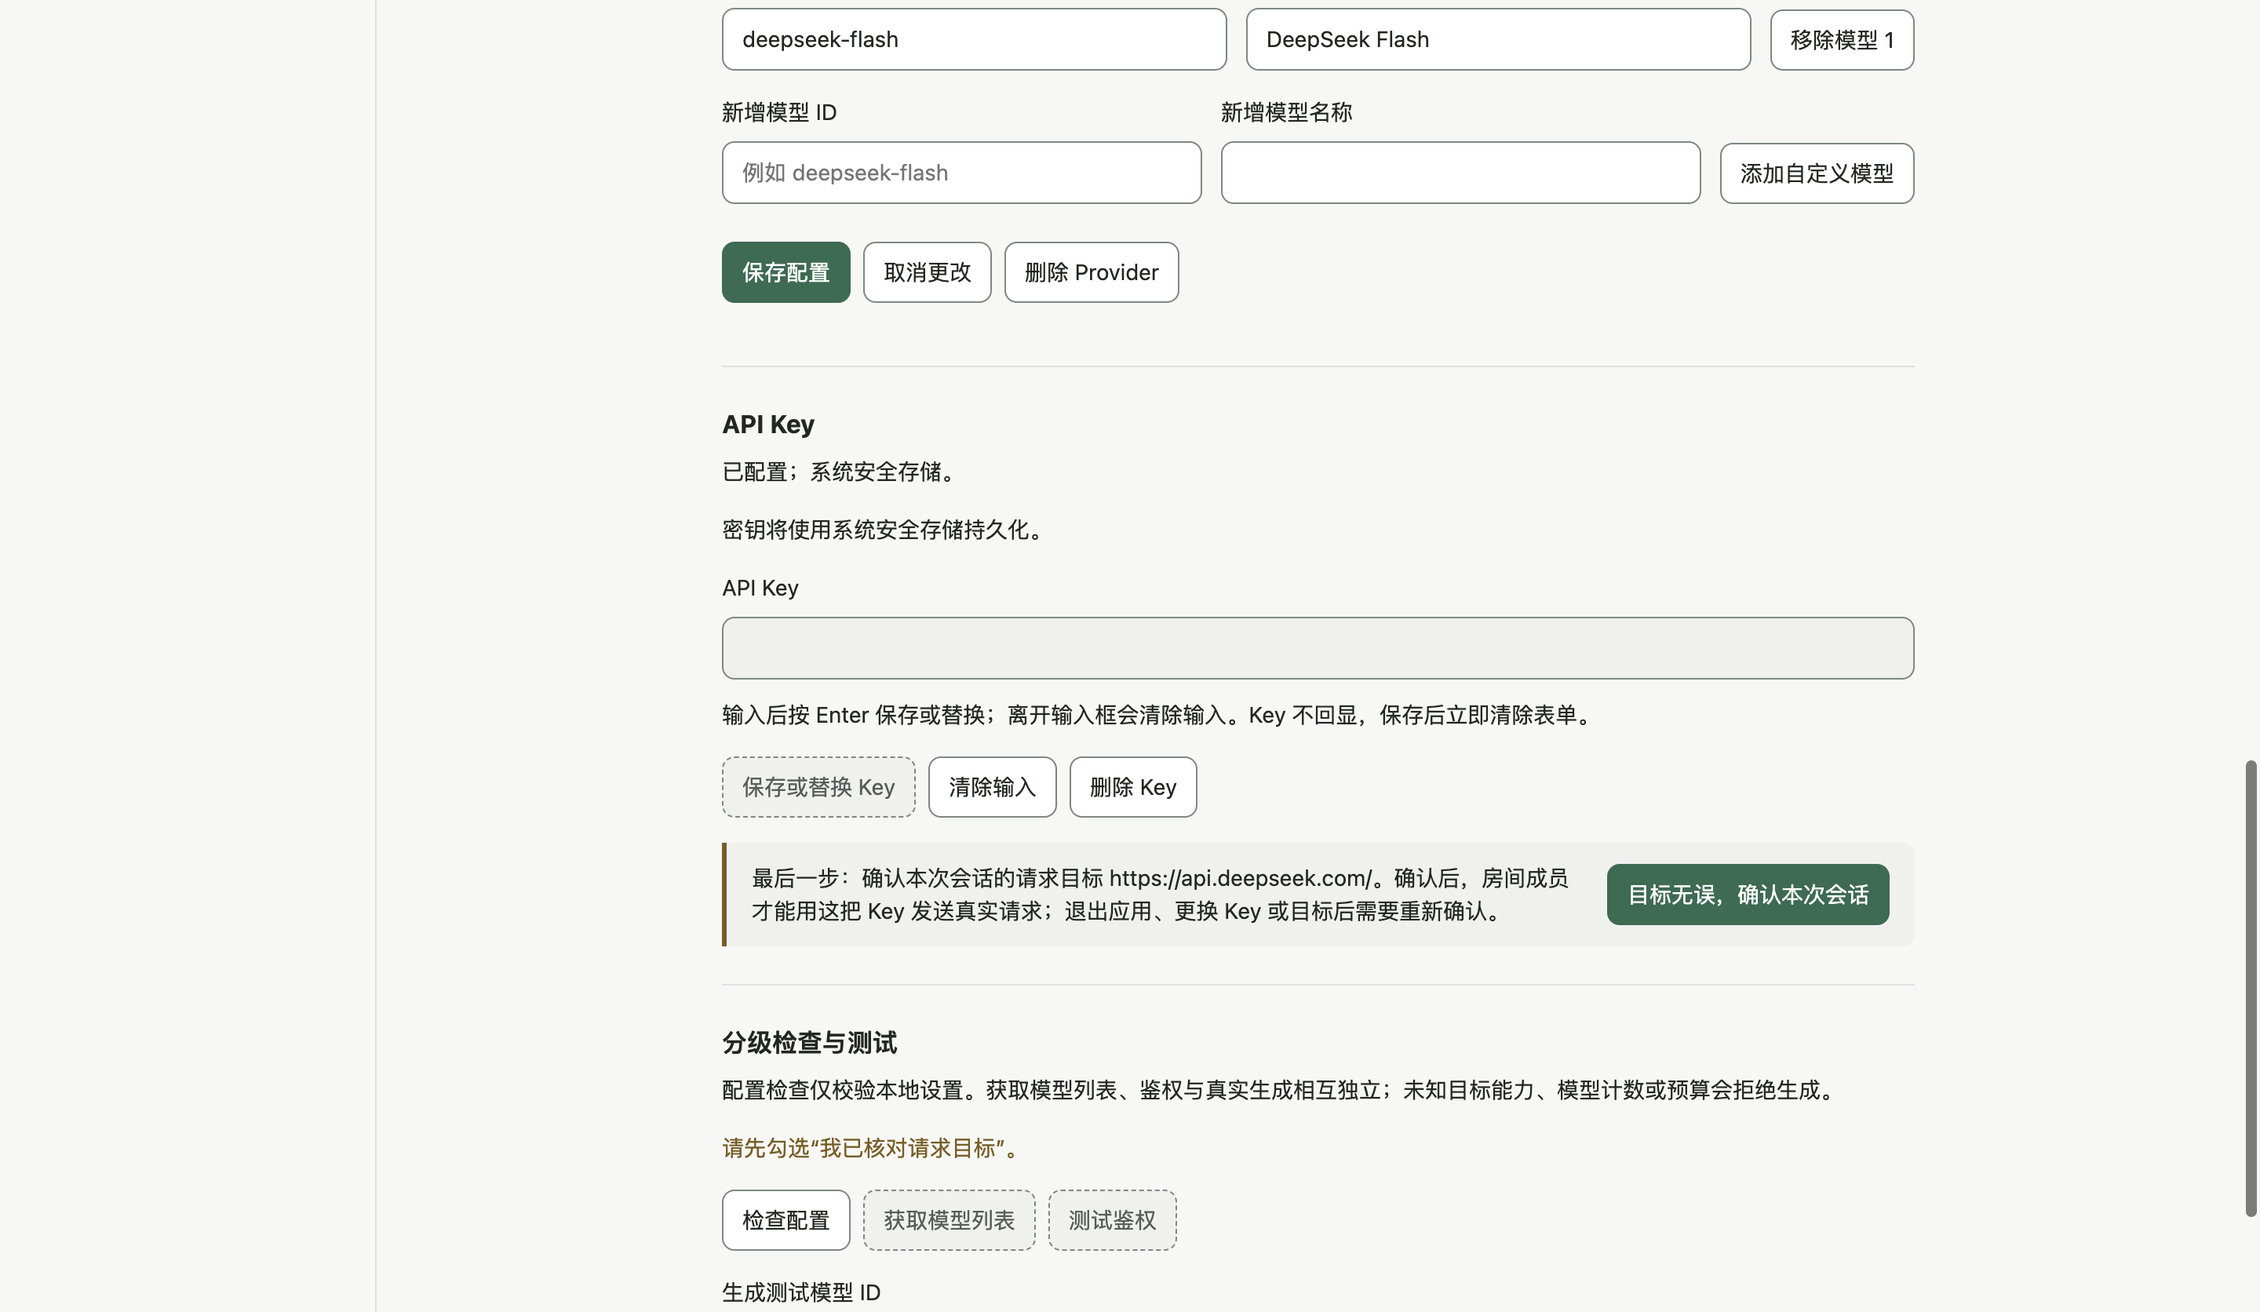
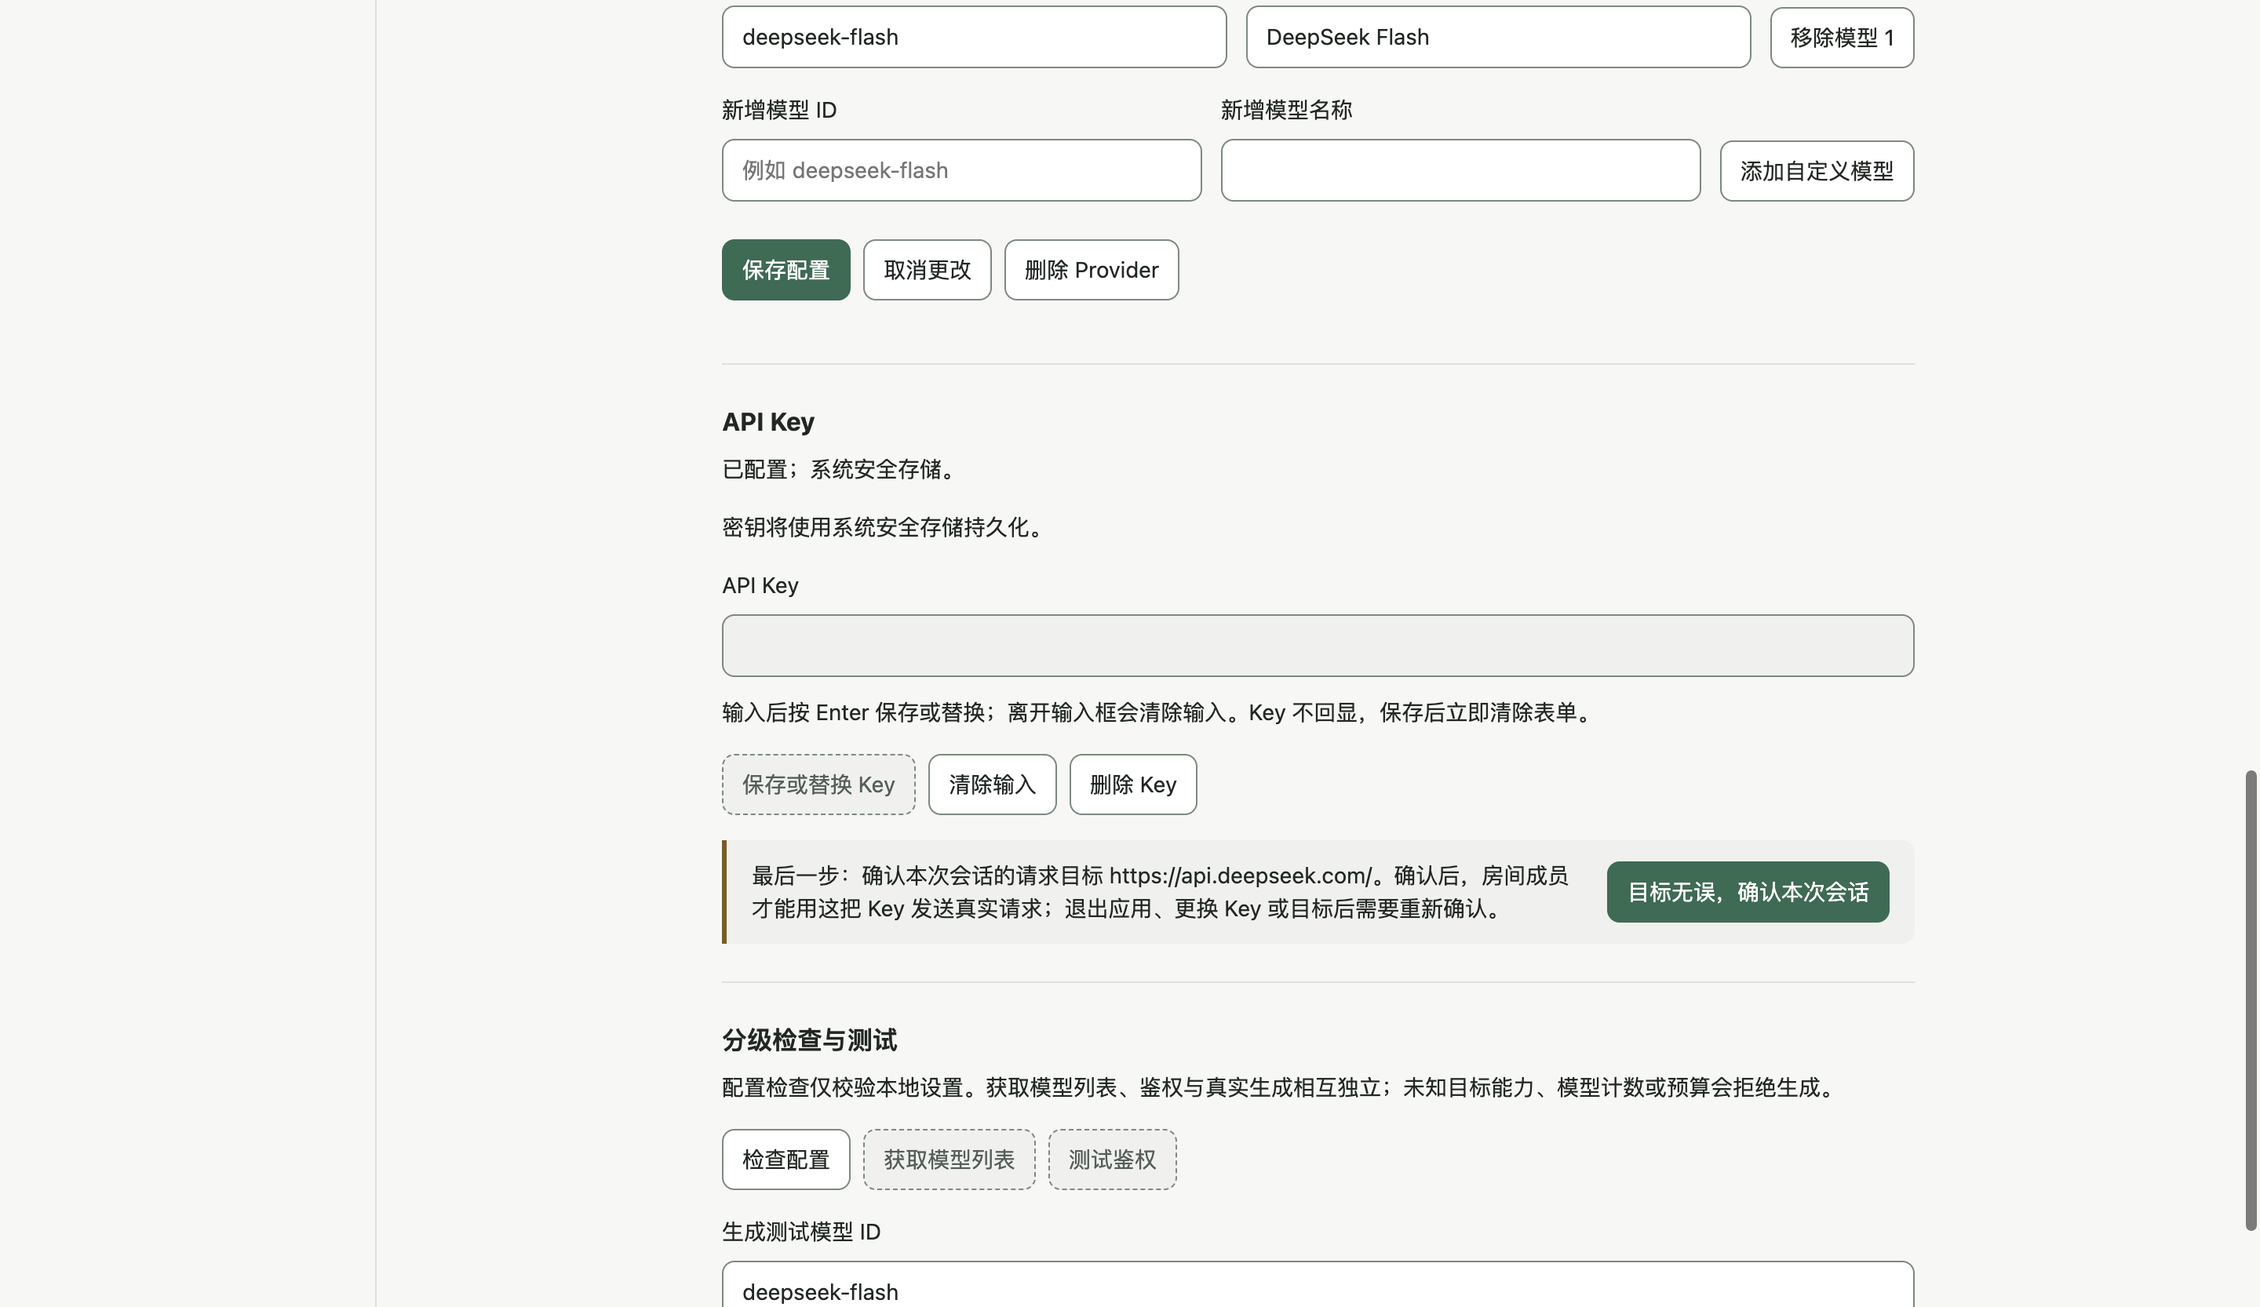
test: purge and Provider-name acceptance phase; D100, D101 and the final record
The acceptance probe gains a --restart phase that writes a key-like model
ID into the profile the way older builds allowed, then checks the startup
purge (count-only log, no plaintext left in the file), the member and
Provider hints and Provider names in identity lines (4 more screenshots).
Records the R01/R07R08/R09 probe repairs, five consecutive R12 passes and
the full check results.

diff --git a/docs/verification/2026-10-23-premerge-quality.md b/docs/verification/2026-10-23-premerge-quality.md
@@ -1,16 +1,16 @@
 # 合并前质量修复：验收记录（2026-10-23）
 
-分支 `codex/r13a-premerge-quality`，基线 `codex/r13a-real-model-enable`（`b3e3324`，含 R10–R12 与 R13A）。所有检查都在本机执行，**没有发出任何真实 DeepSeek 请求**，也没有读取真实用户目录 `~/Library/Application Support/ai-roundtable`、`…/ai-roundtable-trial` 或真实 Key：测试用假 Key，探针把 `https://api.deepseek.com` 的传输重定向到本机回环夹具，其他出站全部拦截并断言为零。决策见 [DECISIONS](../DECISIONS.md) D095–D099，契约见 [CONTRACTS](../CONTRACTS.md) 同名一节，发给模型的消息对比见 [premerge-quality-context-comparison.md](premerge-quality-context-comparison.md)。
+分支 `codex/r13a-premerge-quality`，基线 `codex/r13a-real-model-enable`（`b3e3324`，含 R10–R12 与 R13A）。所有检查都在本机执行，**没有发出任何真实 DeepSeek 请求**，也没有读取真实用户目录 `~/Library/Application Support/ai-roundtable`、`…/ai-roundtable-trial` 或真实 Key：测试用假 Key，探针把 `https://api.deepseek.com` 的传输重定向到本机回环夹具，其他出站全部拦截并断言为零。决策见 [DECISIONS](../DECISIONS.md) D095–D101，契约见 [CONTRACTS](../CONTRACTS.md) 同名一节，发给模型的消息对比见 [premerge-quality-context-comparison.md](premerge-quality-context-comparison.md)。
 
 ## 三层验收
 
 | 层 | 内容 | 结果 |
 | --- | --- | --- |
-| 自动化测试 | `pnpm run typecheck`；`pnpm test`（Electron 38.8.6 自带 Node，ABI 139）；`pnpm run build` | 通过：typecheck exit 0；126 个文件 / 1885 个测试全部通过（基线 120 / 1820）；build exit 0 |
-| 隔离生产探针 | `r10-r11-electron.cjs`；`r12-electron.cjs` 首次 + `--restart`；`r13a-electron.cjs` 首次 + `--restart` | 通过：R10/R11 53 项断言、26 次夹具请求（该探针没有重启模式）；R12 首次 22 项 / 4 次请求，重启 14 项 / **0 次请求**；R13A 首次 13 项 / 4 次请求，重启 12 项 / **0 次请求** |
-| 真实界面实操 | `premerge-quality-acceptance.cjs`：真实鼠标/键盘事件（DevTools Input 域），中文经输入法组合输入，11 张截图 | 通过：44 项检查、4 次夹具请求，无控制台错误、无网络外联 |
-| 回归实操探针 | `r13a-acceptance.cjs`；`r12-acceptance.cjs`（已改为"停止 → 确认停止"）；`r10-r11-electron.cjs` 内含的 R10/R11 UI 流程 | 最终一轮全部通过（R13A 21 项、R12 22 项）。R12 在本分支共运行 5 次，1 次在输入法组合步骤失败（拼音未被替换为汉字；该步骤固定等待 120ms，插话代码本分支未改），判定为探针时序不稳定，列为遗留问题。重新生成的 R12/R13A 截图已还原，不覆盖原有证据 |
-| 旧探针（既有失败） | `r01-electron.cjs`、`r07r08-electron.cjs`、`r09-electron.cjs` | **未通过，且与本分支无关**：把基线 `b3e3324` 导出到临时目录单独构建后运行，三者以相同原因失败——R01、R07/R08 断言 Bridge 只有 room/rooms/run/settings 四组（R12 新增了 host），R09 在停止阶段比对"页面文字 = 快照全部消息"（R12 起页面每个槽只显示有效版本）。本分支只同步了 R09 中发给模型的消息断言（D095）和 R07/R08 中控制按钮的位置（D098） |
+| 自动化测试 | `pnpm run typecheck`；`pnpm test`（Electron 38.8.6 自带 Node，ABI 139）；`pnpm run build` | 通过：typecheck exit 0；126 个文件 / 1893 个测试全部通过（基线 120 / 1820）；build exit 0 |
+| 隔离生产探针 | `r01-electron.cjs`（默认、`--joint-ui`、`--r03-recovery`）；`r07r08-electron.cjs`、`r09-electron.cjs`、`r12-electron.cjs`、`r13a-electron.cjs` 各自首次 + `--restart`；`r10-r11-electron.cjs`（无重启模式） | 全部通过。R01 三种模式 PASS；R07/R08 首次 18 项 Bridge 断言 + UI 流程、重启 PASS；R09 首次 65 项断言 / 12 次夹具请求、重启 5 项 / **0 次请求**；R10/R11 53 项 / 26 次请求；R12 首次 22 项 / 4 次请求、重启 14 项 / **0 次请求**；R13A 首次 13 项 / 4 次请求、重启 12 项 / **0 次请求** |
+| 真实界面实操 | `premerge-quality-acceptance.cjs` 首次 + `--restart`：真实鼠标/键盘事件（DevTools Input 域），中文经输入法组合输入，15 张截图 | 通过：首次 45 项检查、4 次夹具请求；重启阶段 11 项检查、0 次请求；无控制台错误、无网络外联 |
+| 回归实操探针 | `r13a-acceptance.cjs`；`r12-acceptance.cjs` | R13A 通过（21 项、3 次夹具请求）。R12 输入法与停止两步改为等待明确状态后，**连续 5 次全部通过**（每次 24 项检查，停止一步都在第一次尝试就落在第一回合）。重新生成的 R12/R13A 截图已还原，不覆盖原有证据 |
+| 旧探针（已修复） | `r01-electron.cjs`、`r07r08-electron.cjs`、`r09-electron.cjs` | 修复前在基线 `b3e3324` 上同样失败（R01/R07R08 卡在 Bridge 只认四组接口；R09 卡在停止阶段"页面文字 = 全部消息"；R01 `--joint-ui` 同 R09；R01 `--r03-recovery` 在基线上也先卡在 Bridge）。现已按 R12/R13A 行为更新，结果见"隔离生产探针"一行 |
 | 真实模型实测 | 用户自己的 DeepSeek Key 复测讨论质量与账单 | **未验证，待总控和用户一起做** |
 
 ## 实操截图（`premerge-quality-screens/`）
@@ -28,6 +28,10 @@
 | [09-step-option.png](premerge-quality-screens/09-step-option.png) | 开始前在输入区勾选"每个回合结束后暂停，方便插话或点名"（默认不勾选，勾选后记住），任务用输入法改为"讨论跑腿平台的定价"。 |
 | [10-step-paused-interject.png](premerge-quality-screens/10-step-paused-interject.png) | 开始后起草者说完即自动暂停（页头"已暂停"），没有和模型抢时间；在右侧"插话"用输入法输入"请重点比较按距离计价和固定价"并发送，插话出现在时间线上；输入区提示下一步可以做什么。 |
 | [11-step-next.png](premerge-quality-screens/11-step-next.png) | 点"下一步"：只让审查者发言一次，说完再次自动暂停；脚本核对了它收到的请求体中包含刚才的主持人插话（`【主持人插话】` + 引用）。 |
+| [12-purged-member.png](premerge-quality-screens/12-purged-member.png) | 重启阶段：先把一串合成的 `sk-` 假值直接写进数据库三处模型 ID（Provider 默认模型、自定义模型、审查者的 Model），模拟旧版本留下的数据，再启动。启动时三处全部清除，日志只有"已清除 3 处疑似 API Key 的模型 ID"；数据库文件（含 WAL/SHM）里再也找不到这串明文（启动前能找到）。"房间与成员"里审查者显示"Model 未配置：请编辑成员，填写模型 ID 后才能参与运行"，右侧"未选择模型"，其他成员不受影响。 |
+| [13-purged-member-fixed.png](premerge-quality-screens/13-purged-member-fixed.png) | 点"编辑 审查者"，在 Model 栏重新填 deepseek-flash 并保存：提示消失，审查者恢复正常。 |
+| [14-purged-provider.png](premerge-quality-screens/14-purged-provider.png) | "模型设置"里 DeepSeek 直连的默认模型 ID 已清空（只显示示例），自定义模型只剩 deepseek-flash，疑似 Key 的条目已删除；页面上没有任何密钥文本，也不再需要"已隐藏"的提示。 |
+| [15-provider-name.png](premerge-quality-screens/15-provider-name.png) | 重启后打开上一次运行（成员快照冻结的是 Provider ID）：身份行显示"Drafter · Provider：DeepSeek 直连 · Model：deepseek-flash"，不再显示 UUID；脚本核对讨论页没有任何 UUID。找不到 Provider 时显示"Provider 已删除"等文字（单元测试覆盖）。 |
 
 探针另外核对了真实生产构建发给夹具的请求体：审查者那次请求只有一条 user 消息（没有 assistant），其中包含 `【成员「起草者」· Drafter】\n> DeepSeek 夹具回复 1` 和"现在由你（成员「审查者」· Critic）发言"。下拉框（Provider 类型、成员 Provider）是系统原生菜单，脚本以"聚焦 + change 事件"选择，其余均为真实输入事件。
 
@@ -37,6 +41,8 @@
 2. "新增模型 ID"下的示例与占位符重复 → 去掉重复的一行。
 3. 停止后紧随其后的"重试当前回合"没有计费提醒（实测中的未知费用正是停止后重试产生的）→ 重试/续写下方提示可能再次计费。
 4. （总控更正问题 4 的根因后重做）输入区原本不固定在窗口底部，流式输出变长会把输入区和其中的按钮往下推——即使按钮原地变成"暂停"，鼠标不动也会落空 → 输入区固定在窗口底部，控制条是最后一行，确认和提示都出现在它上方。
+5. （总控审查后补齐）设置页"分级检查与测试"里旧的"请先勾选'我已核对请求目标'"与 Key 输入框旁的说明重复 → 删除旧句，核对目标只在一处说明。
+6. （总控审查后补齐）成员身份行显示 Provider 的 UUID → 显示名称（D101）。
 
 ## 执行的命令
 
@@ -45,23 +51,23 @@ git branch -m codex/r13a-premerge-quality
 pnpm install --frozen-lockfile --prefer-offline
 pnpm test --reporter=dot            # 基线：120 文件 / 1820 测试
 pnpm run typecheck
-pnpm test --reporter=dot            # 126 文件 / 1885 测试
+pnpm test --reporter=dot            # 126 文件 / 1893 测试
 pnpm run build
+./node_modules/.bin/electron tests/probes/r01-electron.cjs
+./node_modules/.bin/electron tests/probes/r01-electron.cjs --joint-ui
+./node_modules/.bin/electron tests/probes/r01-electron.cjs --r03-recovery
+./node_modules/.bin/electron tests/probes/r07r08-electron.cjs        # 及 --restart <临时目录>/r78-manifest.json
+./node_modules/.bin/electron tests/probes/r09-electron.cjs           # 及 --restart <临时目录>/r09-manifest.json
 ./node_modules/.bin/electron tests/probes/r10-r11-electron.cjs
-./node_modules/.bin/electron tests/probes/r12-electron.cjs
-./node_modules/.bin/electron tests/probes/r12-electron.cjs --restart <临时目录>/r12-manifest.json
-./node_modules/.bin/electron tests/probes/r13a-electron.cjs
-./node_modules/.bin/electron tests/probes/r13a-electron.cjs --restart <临时目录>/r13a-manifest.json
-./node_modules/.bin/electron tests/probes/premerge-quality-acceptance.cjs
+./node_modules/.bin/electron tests/probes/r12-electron.cjs           # 及 --restart <临时目录>/r12-manifest.json
+./node_modules/.bin/electron tests/probes/r13a-electron.cjs          # 及 --restart <临时目录>/r13a-manifest.json
+./node_modules/.bin/electron tests/probes/premerge-quality-acceptance.cjs   # 及 --restart <临时目录>/premerge-manifest.json
 ./node_modules/.bin/electron tests/probes/r13a-acceptance.cjs
-./node_modules/.bin/electron tests/probes/r12-acceptance.cjs
-./node_modules/.bin/electron tests/probes/r01-electron.cjs     # 本分支与基线均失败（既有）
-./node_modules/.bin/electron tests/probes/r07r08-electron.cjs  # 同上
-./node_modules/.bin/electron tests/probes/r09-electron.cjs     # 同上
+./node_modules/.bin/electron tests/probes/r12-acceptance.cjs         # 连续 5 次
 ```
 
 ## 未验证
 
 - 真实 DeepSeek 复测：成员是否不再照抄、重新生成是否采用主持人修改后的内容、实际账单（待总控与用户一起做）。
-- R01、R07/R08、R09 探针自 R12 起即失败（见上表），本分支未修复。
+- 启动清除不处理迁移备份（`backups/backup-*.sqlite3`，只在升级 migration 时生成）；若某个备份生成时已含疑似 Key 的模型 ID，它仍留在备份里，是否删除需用户决定（D100）。
 - 当前没有 lint 和 E2E 命令；跨平台打包未做。

diff --git a/docs/CONTRACTS.md b/docs/CONTRACTS.md
@@ -358,7 +358,7 @@ R13A 子会话（分支 `codex/r13a-real-model-enable`，基线 R12 `15e2e30`）
 
 ## 合并前质量修复（2026-10-23，子会话候选，未合 main）
 
-分支 `codex/r13a-premerge-quality`（基线 `b3e3324`）。总控授权本子会话直接修改共享文件；共享与接线改动以 `contract:` / `wire:` 提交。决策见 [DECISIONS](DECISIONS.md) D095–D099。
+分支 `codex/r13a-premerge-quality`（基线 `b3e3324`）。总控授权本子会话直接修改共享文件；共享与接线改动以 `contract:` / `wire:` 提交。决策见 [DECISIONS](DECISIONS.md) D095–D101。
 
 | 层 | 变化 | 兼容性 |
 | --- | --- | --- |
@@ -367,8 +367,8 @@ R13A 子会话（分支 `codex/r13a-real-model-enable`，基线 R12 `15e2e30`）
 | Shared `schemas/common.ts` | 新增 `looksLikeApiKey`、`modelIdSchema` | 新导出 |
 | Shared `schemas/configuration.ts` | `defaultModelId`、`customModels[].id`、`agent.modelId`、连接测试 `modelId` 改用 `modelIdSchema`；`providerConfigurationSchema.withheldModelIds?: true`、`agentConfigurationSchema.withheldModelId?: true`；`providerKeyStateSchema.sessionTargetConfirmed?: boolean` | 只增可选字段；输入新增拒绝条件（类密钥值） |
 | Shared `schemas/provider.ts` | `streamChatInputSchema.modelId` 改用 `modelIdSchema` | 类密钥模型 ID 在发送前被拒 |
-| Database | 读取 Provider / 成员时隐藏类密钥模型 ID 并打标；`validateModelSelection` 用 `modelIdSchema` | 无 migration，不改存量数据 |
+| Database | 读取 Provider / 成员时隐藏类密钥模型 ID 并打标；`validateModelSelection` 用 `modelIdSchema`；新增 `purgeKeyLikeModelIds()`，Main 启动时（初始化后、窗口与 IPC 之前）在一个事务里清除三处类密钥模型 ID，有清除时 `secure_delete` + `VACUUM` + `wal_checkpoint(TRUNCATE)`，只记录数量（D100） | 无 migration、不改表结构；会改写存量数据（清除疑似 Key） |
 | ProviderRegistry / ProviderSettingsService | `isTargetConfirmed(id)`；`getProviderKeyState` 在有注册表时附带 `sessionTargetConfirmed` | IPC 通道不变 |
-| Renderer | 设置页接入进度、Key 输入框就近原因与一键操作、模型 ID 示例与类密钥提示；成员编辑器同样提示；App 输入区固定在窗口底部，运行时"开始协作"原地变为 暂停/继续 · 下一步 · 停止（停止在末尾并轻量确认），右侧面板去掉重复的运行按钮；开始前可选逐回合推进（`run.start` 已有的 `mode: 'step'`，未新增字段）；`rendererSession.startRun` 的 limits 增加可选 `mode` | — |
+| Renderer | 设置页接入进度、Key 输入框就近原因与一键操作、模型 ID 示例与类密钥提示；成员编辑器同样提示；App 输入区固定在窗口底部，运行时"开始协作"原地变为 暂停/继续 · 下一步 · 停止（停止在末尾并轻量确认），右侧面板去掉重复的运行按钮；`HostTimeline` 新增可选 `providers`（名称表与读取状态），身份行显示 Provider 名称而非 ID（D101）；开始前可选逐回合推进（`run.start` 已有的 `mode: 'step'`，未新增字段）；`rendererSession.startRun` 的 limits 增加可选 `mode` | — |
 
 安全影响：防注入边界从"JSON 字段 + 角色"变为"应用标签 + 全行引用"，可信指令仍只在 system 段；Key 不再可能以模型 ID 的形式进入请求、Renderer 或日志；会话目标确认机制与失效规则不变。
